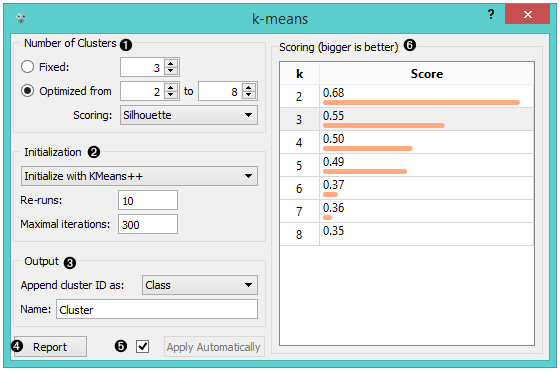
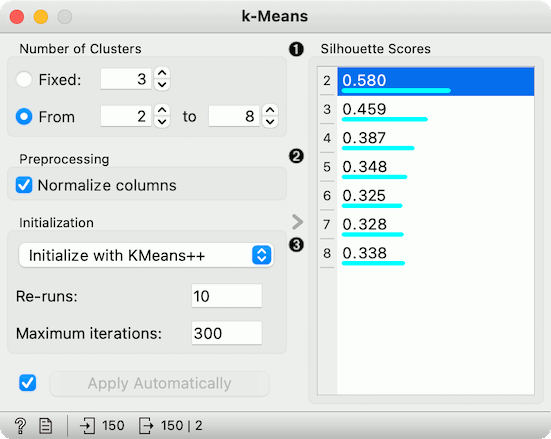
[DOC] kMeans: update documentation

diff --git a/doc/visual-programming/source/widgets/unsupervised/kmeans.md b/doc/visual-programming/source/widgets/unsupervised/kmeans.md
@@ -9,52 +9,36 @@ Groups items using the k-Means clustering algorithm.
 
 **Outputs**
 
-- Data: dataset with cluster index as a class attribute
+- Data: dataset with cluster label as a meta attribute
+- Centroids: table with initial centroid coordinates
 
-The widget applies the [k-Means clustering](https://en.wikipedia.org/wiki/K-means_clustering) algorithm to the data and outputs a new dataset in which the cluster index is used as a class attribute. The original class attribute, if it exists, is moved to meta attributes. Scores of clustering results for various k are also shown in the widget.
+The widget applies the [k-Means clustering](https://en.wikipedia.org/wiki/K-means_clustering) algorithm to the data and outputs a new dataset in which the cluster label is added as a meta attribute. Silhouette scores of clustering results for various k are also shown in the widget. When using the silhouette score option, the higher the silhouette score, the better the clustering.
 
 ![](images/kMeans-stamped.png)
 
 1. Select the number of clusters.
-   - **Fixed**: algorithm clusters data in a specified number of clusters.
-   - **Optimized**: widget shows clustering scores for the selected cluster range:
-     - [Silhouette](https://en.wikipedia.org/wiki/Silhouette_\(clustering\)) (contrasts average distance to elements in the same cluster with the average distance to elements in other clusters)
-     - **Inter-cluster distance** (measures distances between clusters,normally between centroids)
-     - **Distance to** [centroids](https://en.wikipedia.org/wiki/Centroid) (measures distances to the arithmetic means of clusters)
-2. Select the initialization method (the way the algorithm begins clustering):
+   - **Fixed**: algorithm clusters data to a specified number of clusters.
+   - **From X to Y**: widget shows clustering scores for the selected cluster range using the [Silhouette](https://en.wikipedia.org/wiki/Silhouette_\(clustering\)) score (contrasts average distance to elements in the same cluster with the average distance to elements in other clusters).
+2. **Preprocessing**: If the option is selected, columns are normalized (mean centered to 0 and standard deviation scaled to 1).
+3. Initialization method (the way the algorithm begins clustering):
    - [k-Means++](https://en.wikipedia.org/wiki/K-means%2B%2B) (first center is selected randomly, subsequent are chosen from the remaining points with probability proportioned to squared distance from the closest center)
    - **Random initialization** (clusters are assigned randomly at first and then updated with further iterations)
-  **Re-runs** (how many times the algorithm is run from random initial positions; the result with the lowest within-cluster sum of squares will be used) and **maximal iterations** (the maximum number of iterations within each algorithm run) can be set manually.
-3. The widget outputs a new dataset with appended cluster information. Select how to append cluster information (as class, feature or meta attribute) and name the column.
-4. If *Apply Automatically* is ticked, the widget will commit changes automatically. Alternatively, click *Apply*.
-5. Produce a report.
-6. Check scores of clustering results for various k.
+
+    **Re-runs** (how many times the algorithm is run from random initial positions; the result with the lowest within-cluster sum of squares will be used) and **Maximum iterations** (the maximum number of iterations within each algorithm run) can be set manually.
 
 Examples
 --------
 
-We are going to explore the widget with the following schema.
+First, we load the *Iris* dataset, run k-Means with three clusters, and show it in the [Scatter Plot](../visualize/scatterplot.md). To interactively explore the clusters, we can use [Select Rows](../data/selectrows.md) to select the cluster of interest (say, C1) and plot it in the scatter plot using interactive data analysis. That means if we pass a subset to the scatter plot, the subset will be exposed in the plot.
 
-![](images/K-MeansClustering-Schema.png)
+Try the same procedure for 2 or 4 clusters or explore different clusters in the plot (C2, C3).
 
-First, we load the *Iris* dataset, divide it into three clusters and show it in the [Data Table](../data/datatable.md), where we can observe which instance went into which cluster. The interesting parts are the [Scatter Plot](../visualize/scatterplot.md) and [Select Rows](../data/selectrows.md).
+![](images/kMeans-Example1.png)
 
-Since **k-Means** added the cluster index as a class attribute, the scatter plot will color the points according to the clusters they are in.
+But as we used silhouette score to estimate our cluster quality, we can plot the clusters in the [Silhouette Plot](../visualize/silhouetteplot.md) to observe inliers and outliers. Place Silhouette Plot in place of Select Rows.
 
-![](images/kMeans-Scatterplot.png)
+Silhouette Plot shows silhouette scores for individual data instances. High, positive scores represent instances that are highly representative of the clusters, while negative scores represent instances that are outliers (don't fit well with the cluster). Select negative scores from the green cluster C3 and plot them in a scatter plot as a subset.
 
-What we are really interested in is how well the clusters induced by the (unsupervised) clustering algorithm match the actual classes in the data. We thus take [Select Rows](../data/selectrows.md) widget, in which we can select individual classes and have the corresponding points marked in the scatter plot. The match is perfect for *setosa*, and pretty good for the other two classes.
+It seems like these are mostly iris versicolors, which are bordering the iris virginica region. Note that the green color of the cluster C3 doesn't coincide with the green color of the iris labels - these are two different things.
 
-![](images/K-MeansClustering-Example.png)
-
-You may have noticed that we left the **Remove unused values/attributes** and **Remove unused classes** in [Select Rows](../data/selectrows.md) unchecked. This is important: if the widget modifies the attributes, it outputs a list of modified instances and the scatter plot cannot compare them to the original data.
-
-Perhaps a simpler way to test the match between clusters and the original classes is to use the [Distributions](../visualize/distributions.md) widget.
-
-![](images/K-MeansClustering-Schema2.png)
-
-The only (minor) problem here is that this widget only visualizes normal (and not meta) attributes. We solve this by using [Select Columns](../data/selectcolumns.md): we reinstate the original class *Iris* as the class and put the cluster index among the attributes.
-
-The match is perfect for *setosa*: all instances of setosa are in the third cluster (blue). 48 *versicolors* are in the second cluster (red), while two ended up in the first. For *virginicae*, 36 are in the first cluster and 14 in the second.
-
-![](images/K-MeansClustering-Example2.png)
+![](images/kMeans-Example2.png)
